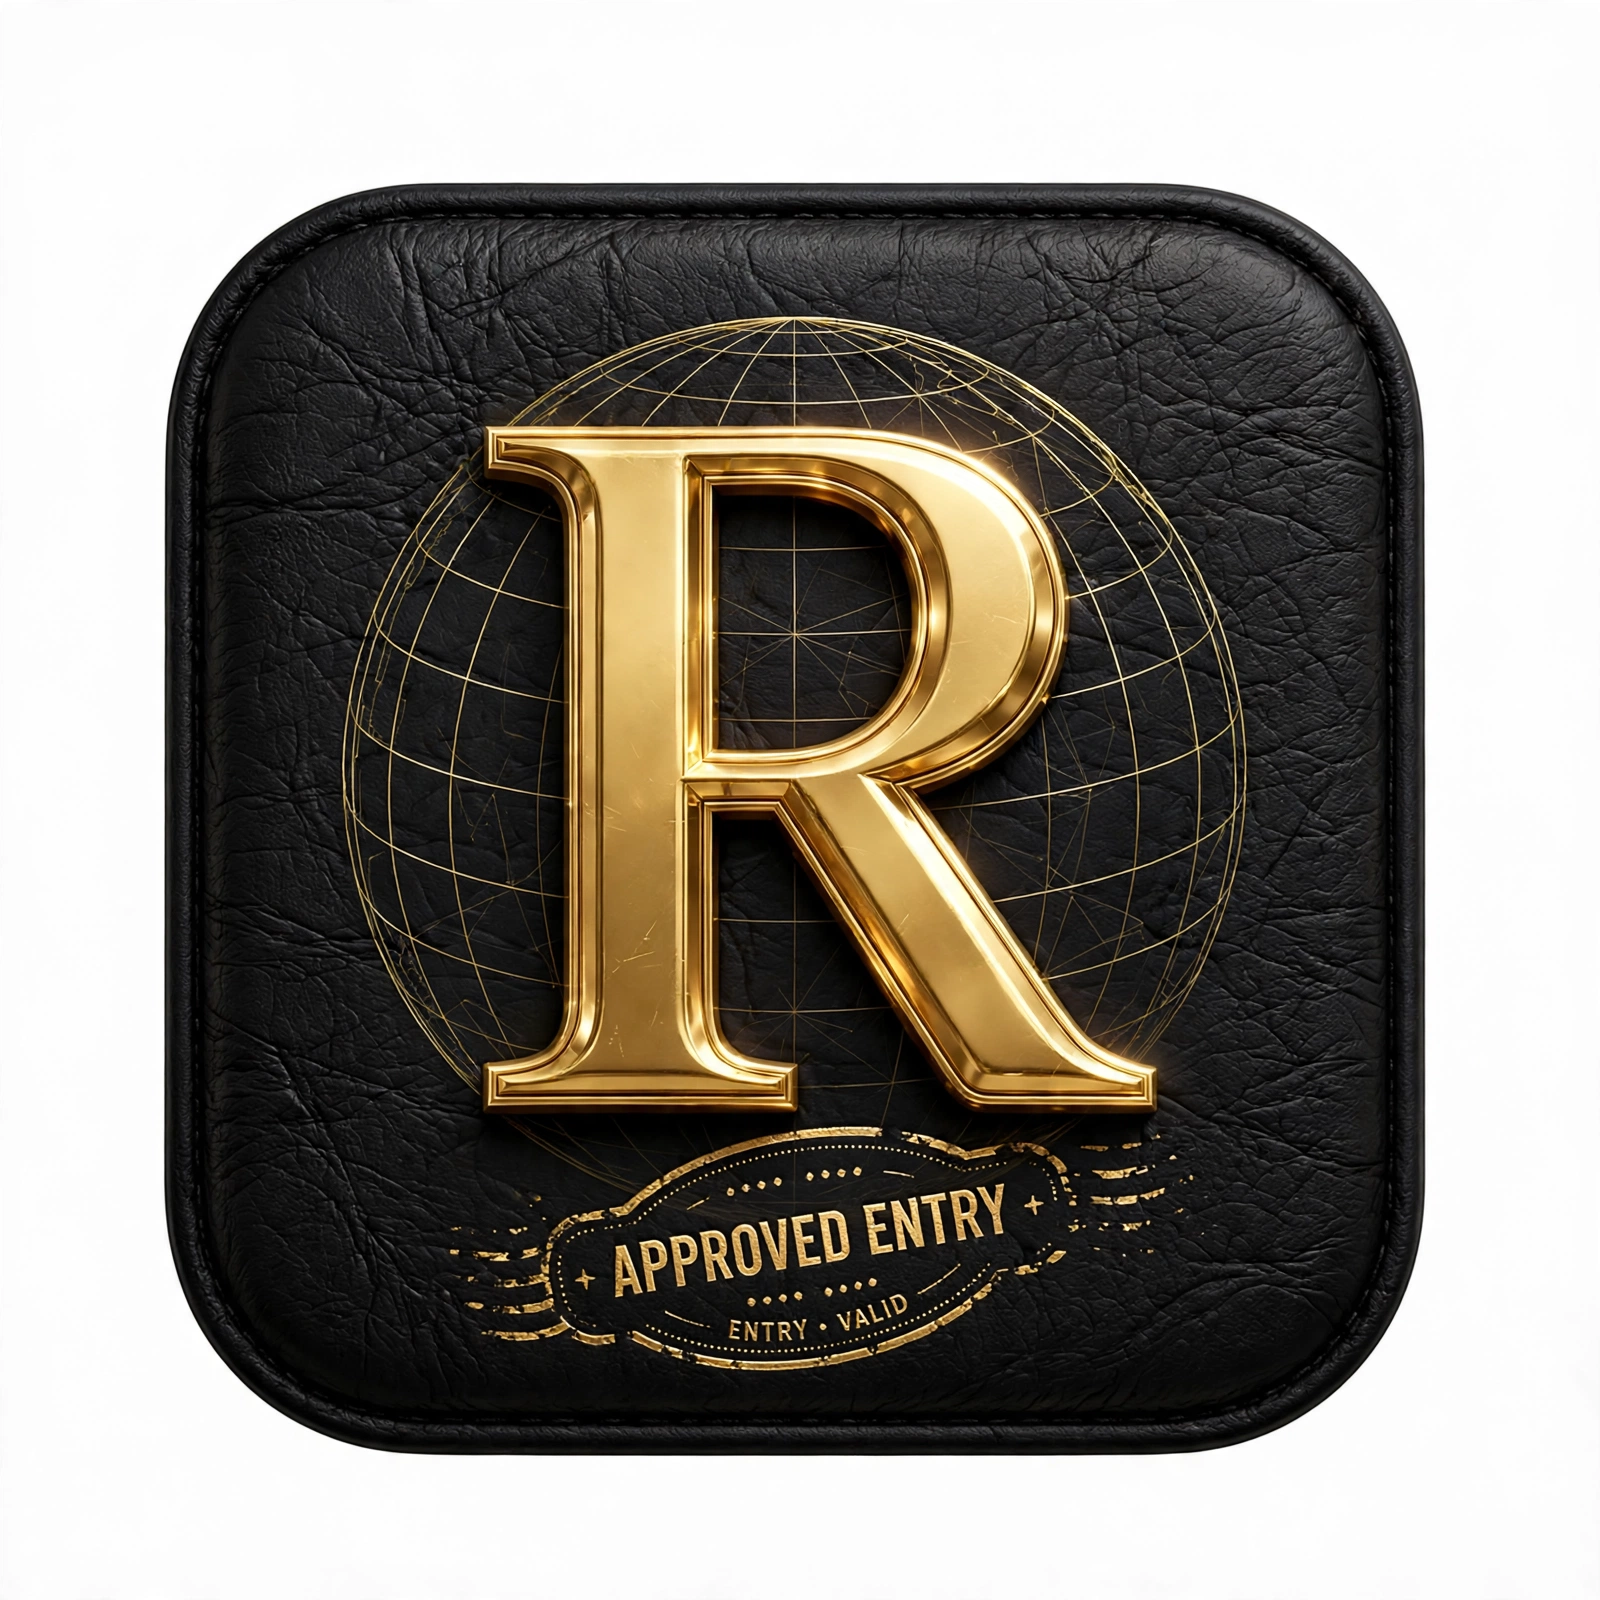
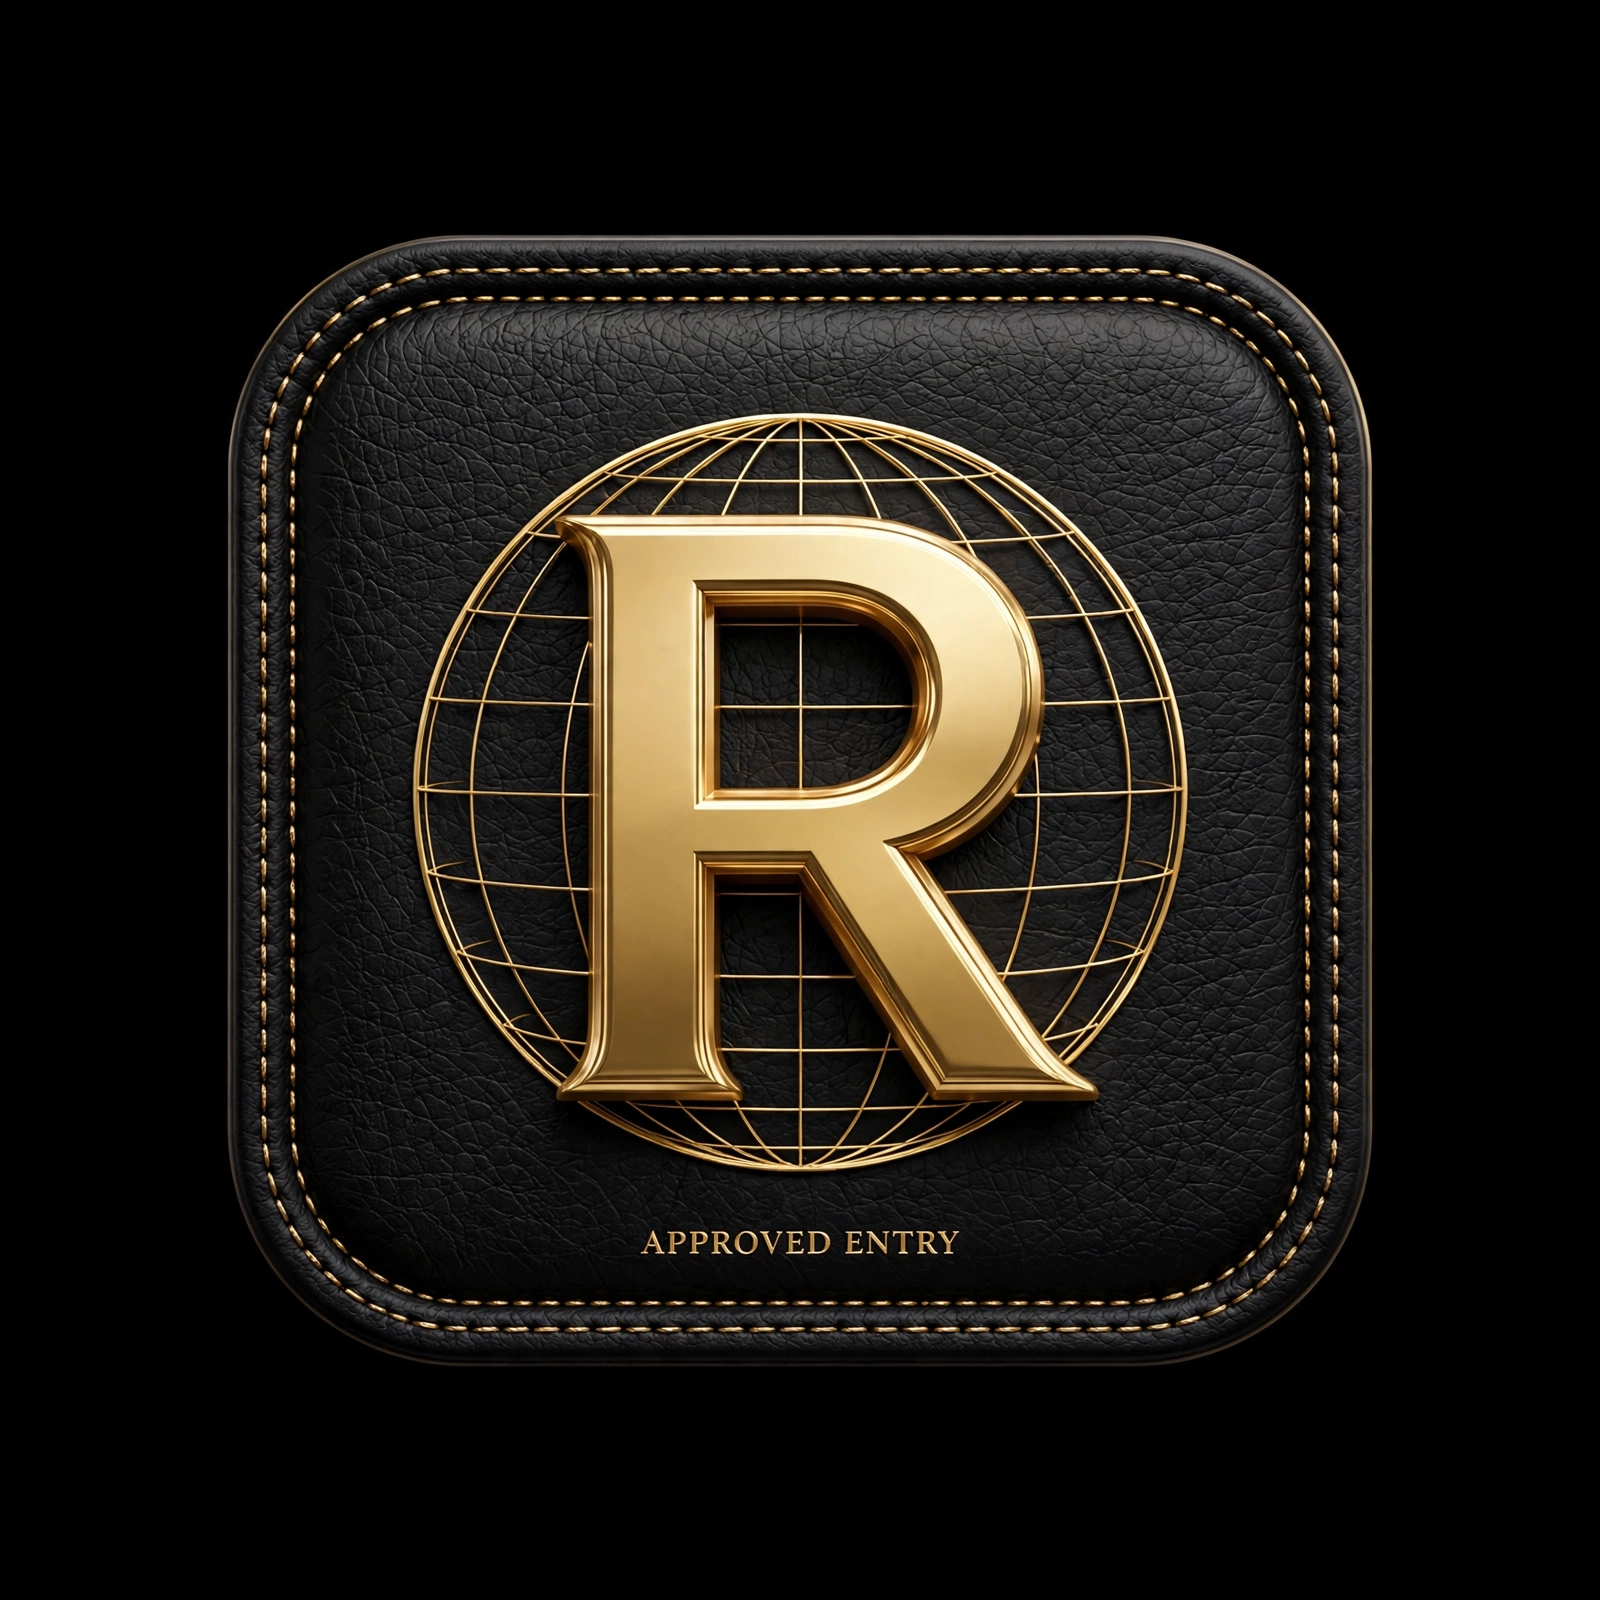
volta imagem R dourado com fundo preto

diff --git a/src/app/page.tsx b/src/app/page.tsx
@@ -116,7 +116,7 @@ export default function Page(){
         )}
         <input ref={cameraInputRef} type="file" accept="image/*" capture="environment" onChange={handleCameraCapture} className="hidden" />
         <button onClick={() => cameraInputRef.current?.click()} disabled={cameraLoading} className="fixed bottom-28 right-4 z-[70] bg-zinc-900 border border-yellow-500/30 text-yellow-200 text-xs px-3 py-2 rounded-full shadow-xl">{cameraLoading? 'LENDO...' : 'SCAN'}</button>
-        {/* fundo preto puro - globo removido */}
+        <img src="/globo-passaporte.png" alt="Ritinha" className={`absolute w- h- object-contain transition-all duration-700 ${isActive? "scale-110 animate-pulse" : "animate-[spin_60s_linear_infinite] opacity-90"}`} />
         <div className="relative z-10 w-full max-w-md px-4"><div className="bg-black/75 backdrop-blur border border-[#D4AF37]/20 rounded-2xl p-4 min-h-">{isActive? (<div><div className="flex items-center gap-2 text-red-400 text-xs animate-pulse mb-2"><span className="w-2 h-2 bg-red-500 rounded-full animate-ping"></span> GRAVANDO</div><div className="text-white/90">{interim||origem||'Ouvindo...'}</div></div>) : origem || traduzido? (<div className="space-y-3">{origem && <div><div className="text-xs tracking-widest text-white/40 mb-1">{fromFlag} {fromLabel} DISSE:</div><div className="text-white font-medium">{origem}</div></div>}{traduzido && <div><div className="text-xs tracking-widest text-[#D4AF37]/60 mb-1">{toFlag} {toLabel} TRADUÇÃO:</div><div className="text-[#FFD700] font-bold text-lg">{traduzido}</div></div>}</div>) : (<div className="text-center text-white/30 text-sm py-8">Toque no microfone</div>)}</div></div>
       </div>
       <div className="bg-[#0f0f10] border-t border-[#222] p-3 pb-5 z-20"><div className="max-w-md mx-auto">{!isActive? (<div className="grid grid-cols-[1fr_48px_1fr] gap-2 items-center"><button onClick={()=>startContinuous(from)} className="h-20 rounded-2xl bg-[#FFD700] text-black font-black flex flex-col items-center justify-center gap-0.5 active:scale-95"><span>MIC</span><span className="text-sm">{fromFlag} {fromLabel}</span></button><button onClick={swap} className="h-12 w-12 rounded-full bg-[#1e1e1e] border border-[#333] text-[#D4AF37] mx-auto">↔</button><button onClick={()=>startContinuous(to)} className="h-20 rounded-2xl bg-[#1a1a1f] border border-[#D4AF37]/30 text-[#D4AF37] font-black flex flex-col items-center justify-center gap-0.5 active:scale-95"><span>MIC</span><span className="text-sm">{toFlag} {toLabel}</span></button></div>) : (<button onClick={stopContinuous} className="w-full h-20 rounded-2xl bg-red-600 text-white font-black flex items-center justify-center gap-3 animate-pulse active:scale-95">PARAR E TRADUZIR</button>)}</div></div>